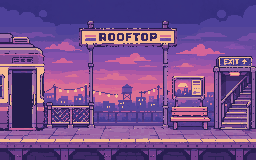
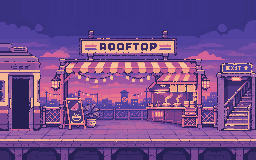
HUD and rooftop food court (work in progress)
Claude-Session: https://claude.ai/code/session_01HtPH4yiA1RL6qEeafuyuW3

diff --git a/src/play/Hud.ts b/src/play/Hud.ts
@@ -198,6 +198,9 @@ export class Hud {
   private verdictAge = Infinity;
   private pulse = 0;
   private solo = false;
+  /** The HP bar's left edge and width (it makes room for Pineapple's x2 mark). */
+  private readonly hpX: number;
+  private readonly hpW: number;
 
   constructor(scene: Phaser.Scene, options: HudOptions) {
     this.scene = scene;
@@ -253,14 +256,16 @@ export class Hud {
     for (const star of this.rivalStars) this.rivalParts.push(star.icon, ...(star.badge ? [star.badge] : []));
 
     // Health: under the player's face. Same rules as always; only the look is new.
+    const doubleMiss = options.gimmick === 'doubleMiss';
+    this.hpX = doubleMiss ? HP_X + 34 : HP_X;
+    this.hpW = HP_W - (this.hpX - HP_X);
     this.hpLabel = addText(scene, P_FACE_X, HP_Y + HP_H / 2, 'HP', 24, { origin: [0, 0.5], color: CSS.cream }).setDepth(Depth.hud);
-    this.hpFrame = hud(scene.add.rectangle(HP_X, HP_Y, HP_W, HP_H, COLORS.ink).setOrigin(0).setStrokeStyle(3, options.gimmick === 'doubleMiss' ? COLORS.miss : COLORS.night));
-    this.hpFill = hud(scene.add.rectangle(HP_X + 2, HP_Y + 2, 0, HP_H - 4, HP_GOOD).setOrigin(0));
-    if (options.gimmick === 'doubleMiss') {
-      // Pineapple: every miss costs double, so the bar wears a warning.
-      addBody(scene, HP_X - 6, HP_Y + HP_H / 2, 'x2', 20, { origin: [1, 0.5], color: CSS.miss, bold: true }).setDepth(Depth.hud);
-      this.hpLabel.setX(P_FACE_X - 2).setText('HP');
-      for (let i = 1; i < 6; i++) hud(scene.add.rectangle(HP_X + (HP_W * i) / 6, HP_Y - 3, 3, HP_H + 6, COLORS.miss, 0.9).setOrigin(0.5, 0));
+    this.hpFrame = hud(scene.add.rectangle(this.hpX, HP_Y, this.hpW, HP_H, COLORS.ink).setOrigin(0).setStrokeStyle(3, doubleMiss ? COLORS.miss : COLORS.night));
+    this.hpFill = hud(scene.add.rectangle(this.hpX + 2, HP_Y + 2, 0, HP_H - 4, HP_GOOD).setOrigin(0));
+    if (doubleMiss) {
+      // Pineapple: every miss costs double, so the bar wears a warning: a red edge, ticks and "x2".
+      addBody(scene, this.hpX - 6, HP_Y + HP_H / 2, 'x2', 22, { origin: [1, 0.5], color: CSS.miss, bold: true }).setDepth(Depth.hud);
+      for (let i = 1; i < 6; i++) hud(scene.add.rectangle(this.hpX + (this.hpW * i) / 6, HP_Y - 3, 3, HP_H + 6, COLORS.miss, 0.9).setOrigin(0.5, 0));
     }
 
     this.scoreText = addText(scene, GAME_W / 2, SCORE_Y, '0', 36).setDepth(Depth.hud);
@@ -644,7 +649,7 @@ export class Hud {
 
   private drawHealth(health: number): void {
     const value = Phaser.Math.Clamp(health, 0, 1);
-    this.hpFill.width = (HP_W - 4) * value;
+    this.hpFill.width = (this.hpW - 4) * value;
     const low = value <= LOW_HEALTH;
     const color = low ? HP_LOW : value <= 0.5 ? HP_MID : HP_GOOD;
     this.hpFill.setFillStyle(color);

diff --git a/tools/build_rooftop.py b/tools/build_rooftop.py
@@ -1,0 +1,72 @@
+#!/usr/bin/env python3
+"""Build stop 8's rooftop food court art: the station, the street and the battle stage.
+
+Run from the repo root:  python3 tools/build_rooftop.py
+
+The raw images (archive/generated-sprites/rooftop/station_raw.png and
+street_raw.png) were generated with an image model in the style of the other
+stations and streets. Each output pixel takes the most common palette colour
+of the block of source pixels it covers (as tools/make_stage.py does), so
+edges stay hard. The station is scaled to 256 wide and padded with sky at the
+top so the platform's front edge lands on row 137, where people stand; the
+street is scaled to 640 wide and cropped so its walkway lands there too. The
+battle stage (stage_rooftop.png) is the street's last 256 columns: Watermelon's
+grill and the little stage in front of it. The first rooftop stage, a plain
+roof with a water tower, is kept in archive/generated-sprites/v1.
+"""
+from pathlib import Path
+
+import numpy as np
+from PIL import Image
+
+ROOT = Path(__file__).resolve().parent.parent
+SRC = ROOT / "archive" / "generated-sprites" / "rooftop"
+OUT = ROOT / "public" / "assets" / "img"
+HEIGHT = 160
+
+
+def mode_downsample(raw: Image.Image, width: int, height: int, colors: int = 40) -> np.ndarray:
+    """The raw picture at width x height, each pixel the most common palette colour of its block."""
+    quantized = raw.convert("RGB").quantize(colors=colors, method=Image.MEDIANCUT, dither=Image.NONE)
+    palette = np.array(quantized.getpalette()[: colors * 3], dtype=np.uint8).reshape(-1, 3)
+    index = np.array(quantized)
+    h, w = index.shape
+    out = np.zeros((height, width), dtype=np.uint8)
+    for y in range(height):
+        y0, y1 = y * h // height, max((y + 1) * h // height, y * h // height + 1)
+        rows = index[y0:y1]
+        for x in range(width):
+            x0, x1 = x * w // width, max((x + 1) * w // width, x * w // width + 1)
+            block = rows[1:-1, x0 + 1:x1 - 1] if (y1 - y0 > 4 and x1 - x0 > 4) else rows[:, x0:x1]
+            out[y, x] = np.bincount(block.ravel(), minlength=colors).argmax()
+    return palette[out]
+
+
+def station() -> Image.Image:
+    raw = Image.open(SRC / "station_raw.png")
+    rows = round(raw.height * 256 / raw.width)
+    art = mode_downsample(raw, 256, rows)
+    pad = HEIGHT - rows
+    art = np.concatenate([np.repeat(art[:1], pad, axis=0), art]) if pad > 0 else art[-pad:]
+    return Image.fromarray(art)
+
+
+# Row of the walkway where people stand in the 640-wide scaled raw (found by eye; it becomes row 137).
+STREET_FEET = 228
+
+
+def street() -> Image.Image:
+    raw = Image.open(SRC / "street_raw.png")
+    rows = round(raw.height * 640 / raw.width)
+    art = mode_downsample(raw, 640, rows)
+    top = STREET_FEET - 137
+    return Image.fromarray(art[top:top + HEIGHT])
+
+
+if __name__ == "__main__":
+    s = station()
+    s.save(OUT / "station_rooftop.png", optimize=True)
+    road = street()
+    road.save(OUT / "street_rooftop.png", optimize=True)
+    road.crop((road.width - 256, 0, road.width, HEIGHT)).save(OUT / "stage_rooftop.png", optimize=True)
+    print("wrote station_rooftop.png, street_rooftop.png, stage_rooftop.png")
